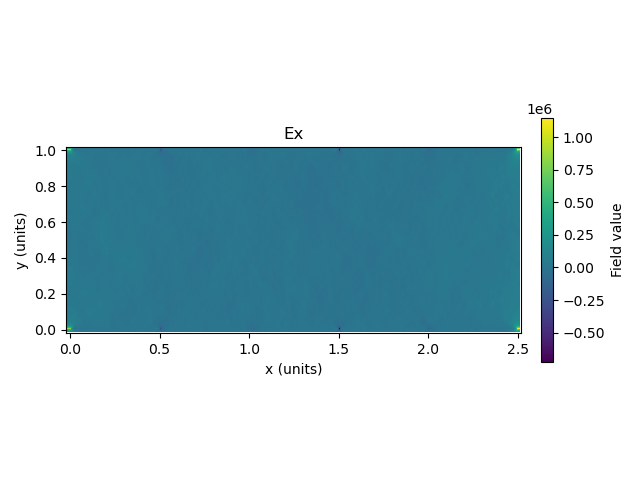
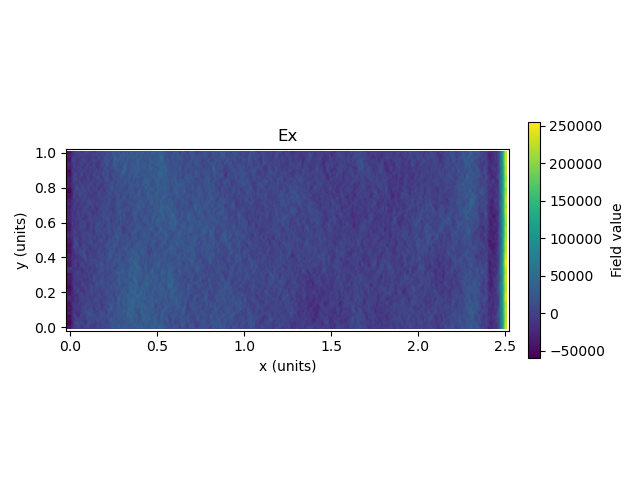
poisson のバグを修正

diff --git a/src/main.mm b/src/main.mm
@@ -1,6 +1,8 @@
 #include <chrono>
 #include <iostream>
 #include <numeric>
+#import <map>
+#import <string>
 #import <Foundation/Foundation.h>
 #import "Init.h"
 #import "Particle.h"
@@ -17,6 +19,19 @@
         NSLog(@"%s: %lld us", name, _time);                           \
     } while (0)
 
+std::map<std::string, std::string> parseArgs(int argc, const char* argv[]) {
+    std::map<std::string, std::string> options;
+    for (int i = 1; i < argc - 1; ++i) {
+        std::string key = argv[i];
+        if (key[0] == '-') {
+            std::string value = argv[i + 1];
+            options[key] = value;
+            ++i; // 値をスキップ
+        }
+    }
+    return options;
+}
+
 int main(int argc, const char * argv[]) {
     @autoreleasepool {
         // デフォルトのMetalデバイスを取得
@@ -26,13 +41,28 @@ int main(int argc, const char * argv[]) {
             return 1;
         }
 
-        // NSLog 出力先を変更
-        // char *filePath = (char*)[@"log.log" UTF8String];
-        // freopen(filePath, "a+", stderr);
-        
+        // I/O チェック
+        auto args = parseArgs(argc, argv);
+        NSString* inputPath;
+        if (args.count("-i") == 1) {
+            inputPath = [NSString stringWithUTF8String:args["-i"].c_str()];
+            // ファイルの存在確認
+            if (![[NSFileManager defaultManager] fileExistsAtPath:inputPath]) {
+                NSLog(@"%@ is not found.", inputPath);
+                return 1;
+            }
+        }else{
+            NSLog(@"Usage: %s -i inputfile.txt -o outputfile.txt", argv[0]);
+            return 1;
+        }
+        if (args.count("-o") == 1) {
+            // NSLog 出力先を変更
+            freopen(args["-o"].c_str(), "w", stderr);
+        }
+
         // 初期化用クラスの設定
-        NSString *inputFilePath = @"data/condition.txt";
-        Init *init = [[Init alloc] parseInputFile:inputFilePath];
+        // NSString *inputPath = @"data/condition.txt";
+        Init *init = [[Init alloc] parseInputFile:inputPath];
         // 入力チェック、変数演算
         bool check = [init checkInput];
         if (!check){
@@ -55,6 +85,11 @@ int main(int argc, const char * argv[]) {
         EMField *fld = [[EMField alloc] initWithDevice:device withParam:init];
         // モーメント量の初期化
         Moment *mom = [[Moment alloc] initialize];
+
+        // 初期場
+        [fld resetChargeDensity];
+        MEASURE("solvePoisson", [fld solvePoisson]);
+        [fld outputField: 0];
 
         // 時間更新ループ
         struct ParamForTimeIntegration timeParams = [init getParamForTimeIntegration];

diff --git a/tools/field.py b/tools/field.py
@@ -2,7 +2,7 @@ import numpy as np
 import matplotlib.pyplot as plt
 
 # プロット関数
-def plot_field(field, title, figname, type_id, bool_buff):
+def plotField2d(field, title, figname, type_id, bool_buff):
     # 解析領域の ikmin, jkmin を復元
     if type_id == 4:
         buff = ngb+1
@@ -57,9 +57,46 @@ def plot_field(field, title, figname, type_id, bool_buff):
     fig.savefig(figname)
     plt.close(fig)
 
+# プロット関数
+def plotField1dx(field, title, figname, type_id, j):
+    # 解析領域の ikmin, jkmin を復元
+    if type_id == 4:
+        buff = ngb+1
+    else:
+        buff = ngb
+    # 定義点を調整
+    if type_id == 0 or type_id == 4:
+        x = np.linspace(-buff*dx, (ngx+ngb)*dx, ngx+ngb+buff+1)
+    elif type_id == 1:
+        ## shifted to left
+        x = np.linspace(-(buff+0.5)*dx, (ngx+ngb-0.5)*dx, ngx+ngb+buff+1)
+    elif type_id == 2:
+        ## shifted to bottom
+        x = np.linspace(-buff*dx, (ngx+ngb)*dx, ngx+ngb+buff+1)
+    elif type_id == 3:
+        ## shifted to left and bottom
+        x = np.linspace(-(buff+0.5)*dx, (ngx+ngb-0.5)*dx, ngx+ngb+buff+1)
+
+    # プロット
+    fig, ax = plt.subplots()
+    ax.plot(x[0:nx+1], field[j, 0:nx+1], label = "j = "+str(j))
+    ax.plot(x[0:nx+1], field[j+1, 0:nx+1], label = "j = "+str(j+1))
+    ax.plot(x[0:nx+1], field[j+2, 0:nx+1], label = "j = "+str(j+2))
+    ax.legend(loc=1)
+    ax.set_xlabel('x (units)')
+    ax.set_ylabel('y (units)')
+    ax.set_xlim(-(ngb+2)*dx, (ngx+ngb+2)*dx)
+    ax.set_title(title)
+    # メッシュの描画
+    ax.axvline(0, color='gray', linestyle=':', linewidth=0.5)
+    ax.axvline(ngx*dx, color='gray', linestyle=':', linewidth=0.5)
+    fig.tight_layout()
+    fig.savefig(figname)
+    plt.close(fig)
+
 if __name__ == '__main__':
 
-    cycle = 1
+    cycle = 200
     filename = f"bin/field_{cycle:08}.bin"
 
     with open(filename, 'rb') as f:
@@ -102,6 +139,7 @@ if __name__ == '__main__':
     # プロット
     for name, type_id, arr in fields:
         print(f"{name}: type_id={type_id}, shape={arr.shape}, min={arr.min()}, max={arr.max()}")
-        plot_field(arr, name, f"fig/{name}_wBuff.png" , type_id , True)
-        plot_field(arr, name, f"fig/{name}.png" , type_id , False)
+        plotField2d(arr, name, f"fig/{name}_wBuff.png" , type_id , True)
+        plotField2d(arr, name, f"fig/{name}.png" , type_id , False)
+        plotField1dx(arr, name, f"fig/{name}_1d_min.png" , type_id , 2)
         # print(arr)

diff --git a/src/EMField.mm b/src/EMField.mm
@@ -319,7 +319,7 @@ typedef amgcl::make_solver<
                         _rhs_BC[k] += -_Cy*_phi_Ymin[j];
                     }else if ([_BC_Ymin isEqualToString:@"periodic"]){
                         // 要素の追加
-                        col.push_back(k+_nky);
+                        col.push_back(k+_nky*(_nkx+1));
                         val.push_back(_Cy);
                         row_entries++;
                     }
@@ -490,7 +490,7 @@ typedef amgcl::make_solver<
     // 収束状況
     NSLog(@"poisson: 反復回数 = %d", iters);
     NSLog(@"poisson: 最終誤差 = %e", error);
-
+    
     // index
     bool isLeft, isRight, isBottom, isTop;
     int idx_in_i, idx_in_j;
